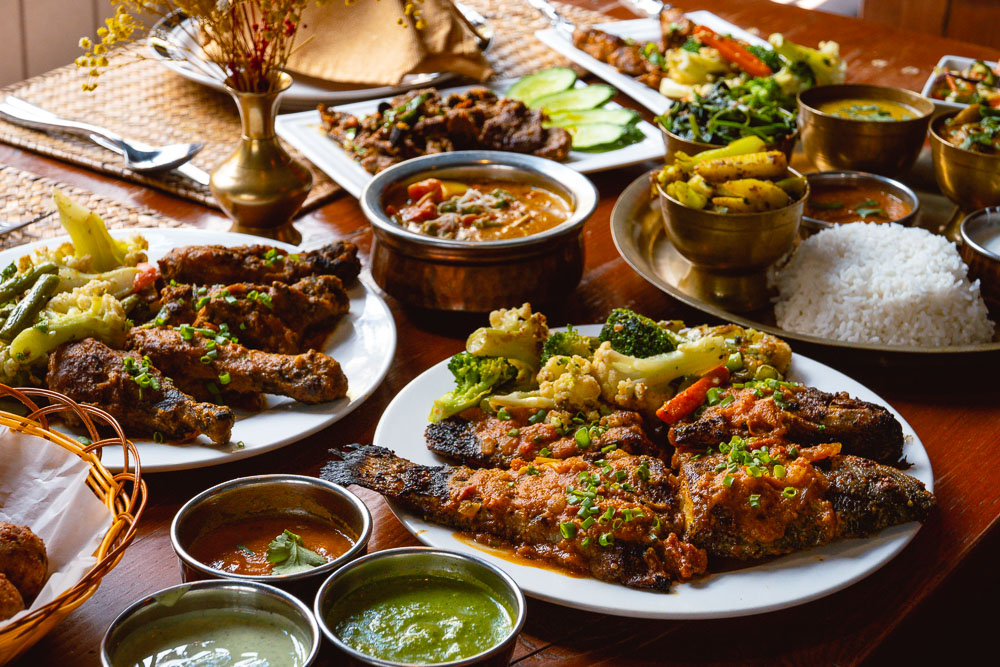
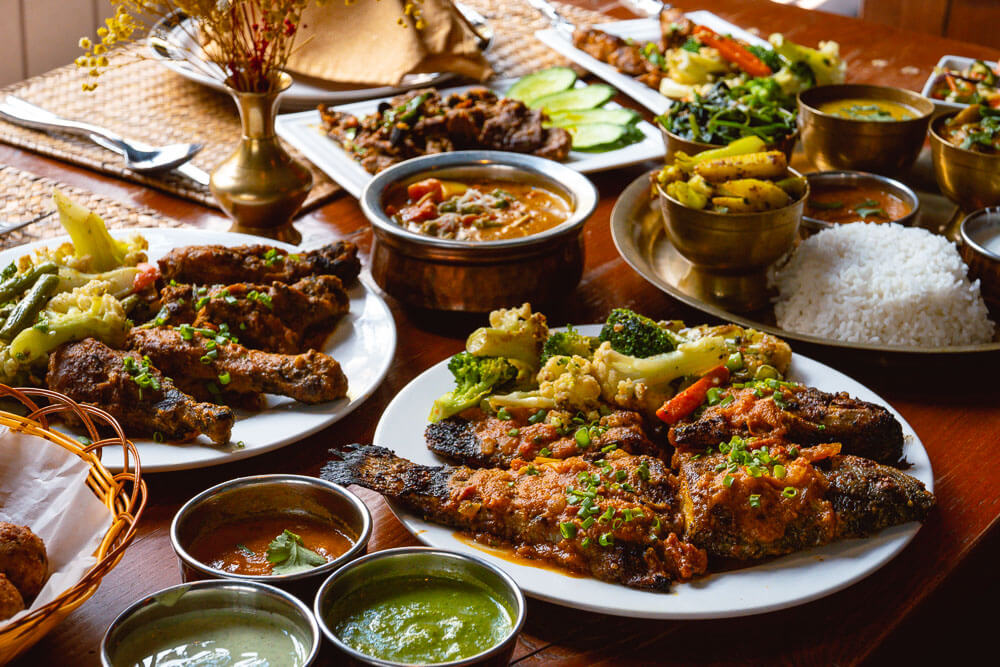
file-format: Update file format to webp

Changed region(s): [[0.682, 0.7196, 0.713, 0.7496], [0.527, 0.7196, 0.558, 0.7496]]

diff --git a/src/constants/data.js b/src/constants/data.js
@@ -1,6 +1,6 @@
 import bgCuisine from '../assets/images/bg_cuisine.png';
-import dessertOffer from '../assets/images/offers/dessert.jpg';
-import beerOffer from '../assets/images/offers/beer.jpg';
+import dessertOffer from '../assets/images/offers/dessert.webp';
+import beerOffer from '../assets/images/offers/beer.webp';
 
 export const offersContent = [
   {

diff --git a/src/components/ui/Reservation.jsx b/src/components/ui/Reservation.jsx
@@ -1,6 +1,6 @@
 import React from 'react';
 import bgCuisine from '../../assets/images/bg_cuisine.png';
-import bgFoods from '../../assets/images/bg_foods.png';
+import bgFoods from '../../assets/images/bg_foods.webp';
 import FireButton from './FireButton';
 import ReservationWhatsApp from './ReservationWhatsApp';
 
